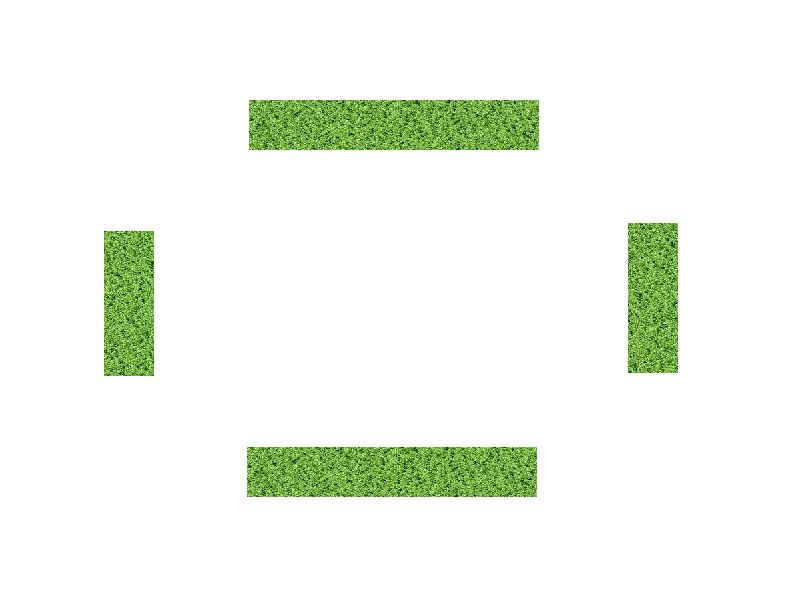
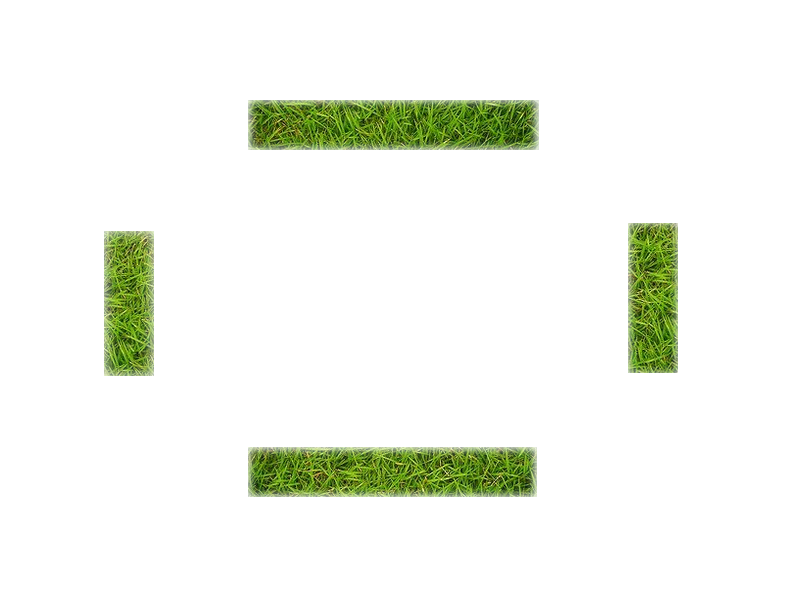
new grass texture.

diff --git a/src/main/Main.java b/src/main/Main.java
@@ -39,7 +39,6 @@ public class Main extends PApplet {
 
 		grassMask=loadImage("../src/environment/Grass.png");		
 
-		
 		graph = World.createGraphFromImage(this);
 		
 		size(Config.SCREEN_WIDTH, Config.SCREEN_HEIGHT);
@@ -56,12 +55,12 @@ public class Main extends PApplet {
 			}			
 		}//*/	
 
-		boids.add(new Boid(100, 150, 90, 0, Config.BOID_TYPE.tank, 1));
-		//boids.add(new Boid(100, 250, 180, 0, Config.BOID_TYPE.soldier, 2));
+		//boids.add(new Boid(100, 150, 90, 0, Config.BOID_TYPE.scout, 1));
+		boids.add(new Boid(100, 250, 180, 0, Config.BOID_TYPE.soldier, 2));
 		//boids.add(new Boid(100, 350, 90, 0, Config.BOID_TYPE.tank, 3));
 		
-		boids.add(new Boid(700, 200, 270, 1, Config.BOID_TYPE.scout, 4));
-		//boids.add(new Boid(700, 300, 270, 1, Config.BOID_TYPE.soldier, 5));
+		//boids.add(new Boid(700, 200, 270, 1, Config.BOID_TYPE.scout, 4));
+		boids.add(new Boid(700, 300, 270, 1, Config.BOID_TYPE.soldier, 5));
 		//boids.add(new Boid(700, 400, 270, 1, Config.BOID_TYPE.tank, 6));
 		player=new Player(boids.get(0));
 	}
@@ -108,7 +107,7 @@ public class Main extends PApplet {
 
 		for(Boid b : boids) {				
 			if(b!=player.b) {
-				DecisionTree.PerformDecision(b);
+				//DecisionTree.PerformDecision(b);
 				
 				if(b.fuel > 0)
 					Behavior.update2(b);
@@ -134,6 +133,7 @@ public class Main extends PApplet {
 		}		
 		if(mouseVec!=null) ellipse(mouseVec.x, mouseVec.y, 20, 20);
 		
+		//boids.get(1).evade(boids.get(0));
 		/*
 		for(int i=0;i<boids.size();i++) {
 			Boid b = boids.get(i);
@@ -158,9 +158,7 @@ public class Main extends PApplet {
 		
 	}
 
-	private void drawEnvironment() {
-		//draw the indoor environment
-		
+	private void drawEnvironment() {	
 		tint(255,255);	
 		image(environment, 0, 0);
 		
@@ -171,7 +169,8 @@ public class Main extends PApplet {
 					buff.countdown--;
 				String buffText = "Red";
 				if(buff.getType() == 1) buffText = "Blue";
-				buffText += " in " + buff.countdown + " sec(s)";
+				buffText += " in " + buff.countdown + " sec";
+				if(buff.countdown > 1) buffText += "s";
 				drawText(buffText, buff.x - 50, buff.y, "Georgia", 15, buff.getRGB());
 			}
 			else {

diff --git a/src/main/Config.java b/src/main/Config.java
@@ -43,7 +43,7 @@ public class Config {
 		public int value() {return this.value;}
 	};
 	
-	public static int[] BOID_SIZE = 		{15, 20, 35, 25, 25};
+	public static int[] BOID_SIZE = 		{15, 25, 35, 25, 25};
 	public static int[] BOID_VISION = 		{120, 90, 90, 90, 90};
 	public static int[] BOID_AUDITORY = 	{30, 15, 10, 20, 20};
 	public static int[] BOID_FUEL = 		{100, 200, 300, 200, 200};
